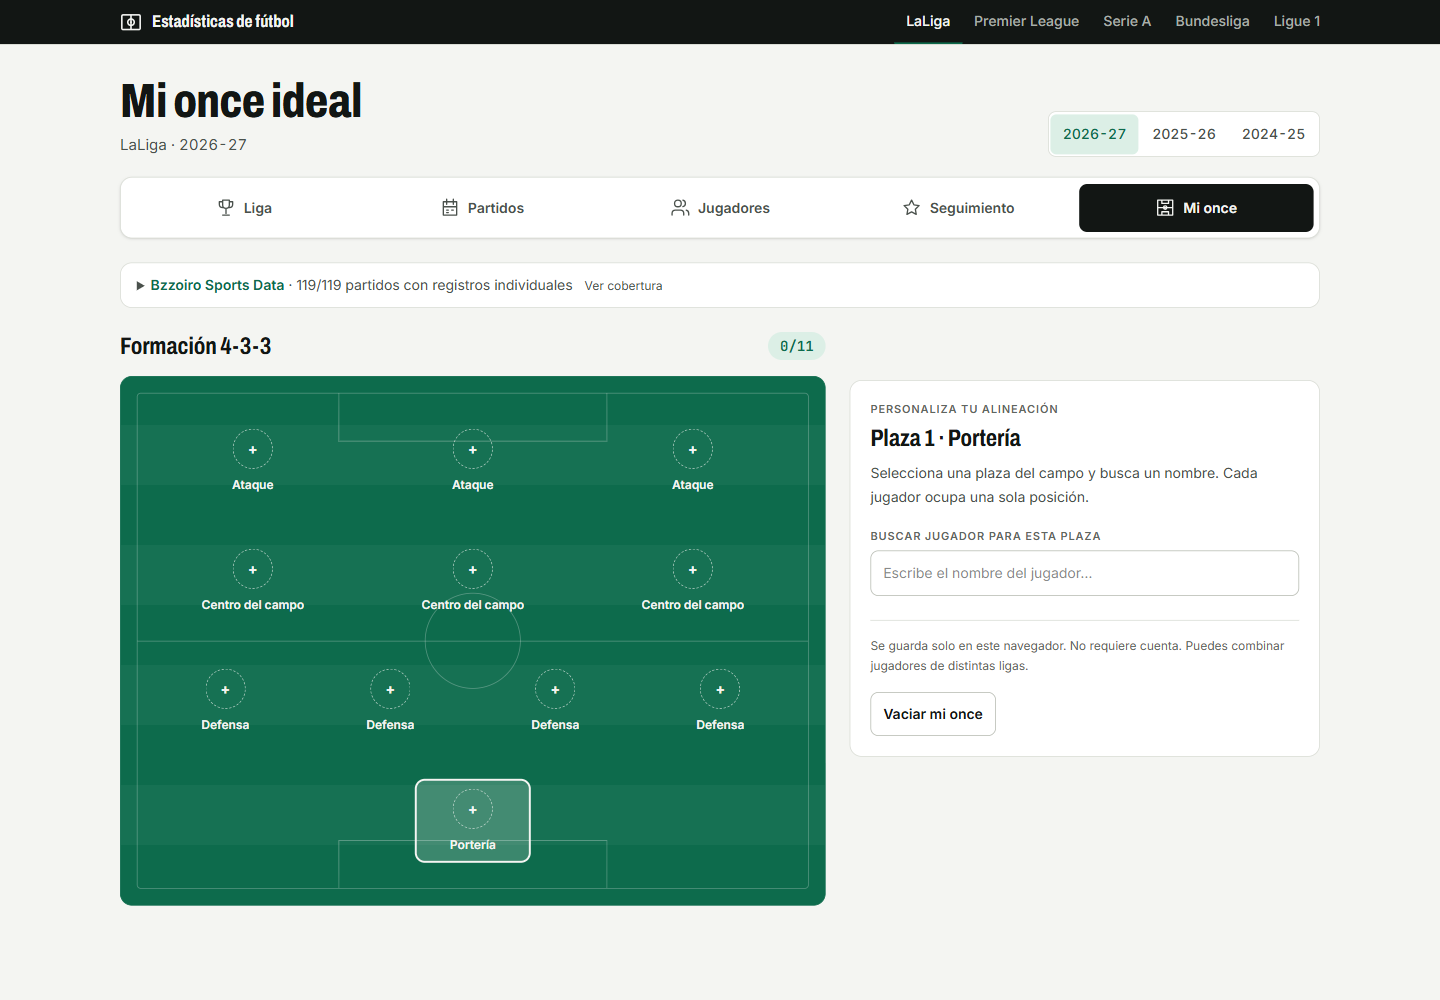
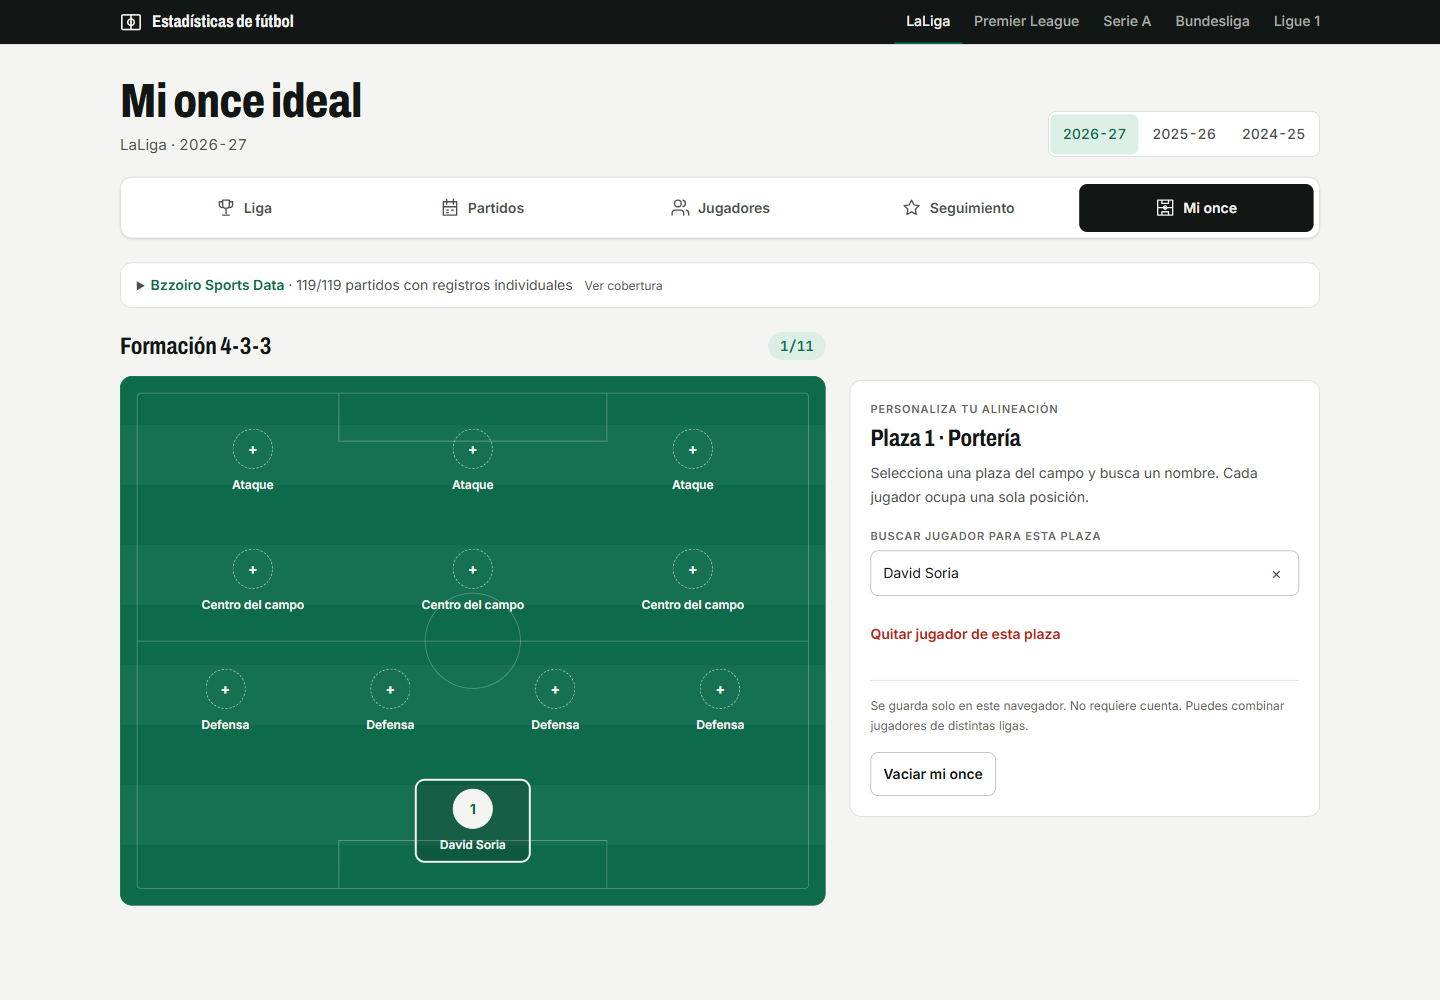
fix: preserve text contrast in interactive match and lineup states

Changed region(s): [[0.5938, 0.62, 0.9062, 0.806], [0.2812, 0.775, 0.375, 0.868], [0.625, 0.558, 0.75, 0.589]]

diff --git a/01-dashboard-deportes/web/src/components/LineupPitch.tsx b/01-dashboard-deportes/web/src/components/LineupPitch.tsx
@@ -25,7 +25,7 @@ export function LineupPitch({ data, state, update }: {
               const id=state.eleven[slot]; const player=data.players.find(p=>p.id===id);
               return <button key={slot} type="button" aria-pressed={active===slot}
                 aria-label={`Plaza ${slot+1}, ${positionLabel(SLOTS[slot])}: ${player?.name??(id?`Jugador ${id}, otra liga`:pe.emptySlot)}`}
-                onClick={()=>{setActive(slot);if(window.matchMedia('(max-width: 1023px)').matches){editor.current?.focus({preventScroll:true});editor.current?.scrollIntoView({block:'center'});}}} className={`flex min-h-20 w-1/4 max-w-28 flex-col items-center gap-2 rounded-control px-1 py-2 text-on-ink transition-colors ${active===slot?'bg-on-ink/20 ring-2 ring-on-ink':'hover:bg-on-ink/10'}`}>
+                onClick={()=>{setActive(slot);if(window.matchMedia('(max-width: 1023px)').matches){editor.current?.focus({preventScroll:true});editor.current?.scrollIntoView({block:'center'});}}} className={`flex min-h-20 w-1/4 max-w-28 flex-col items-center gap-2 rounded-control px-1 py-2 text-on-ink transition-colors ${active===slot?'bg-ink/20 ring-2 ring-on-ink':'hover:bg-on-ink/10'}`}>
                 <span className={`flex h-10 w-10 items-center justify-center rounded-full border text-sm font-bold ${id?'border-on-ink bg-on-ink text-accent':'border-dashed border-on-ink/70'}`}>{id?slot+1:'+'}</span>
                 <span className="line-clamp-2 text-xs font-semibold leading-snug">{player?.name??(id?`Jugador #${id}`:positionLabel(SLOTS[slot]))}</span>
               </button>;

diff --git a/01-dashboard-deportes/web/src/components/UpcomingMatchCards.tsx b/01-dashboard-deportes/web/src/components/UpcomingMatchCards.tsx
@@ -14,7 +14,7 @@ export function MatchCards({ data, base, now }: { data: PlayerData; base: string
   const labels = { upcoming: pe.upcomingMatches, results: pe.recentResults, season: pe.wholeSeason };
   const next = groups.upcoming[0];
   return <section className="my-6">
-    {next && <Link href={`${base}/partido/${next.id}`} className="mb-6 grid gap-5 rounded-panel bg-ink p-5 text-on-ink transition-colors hover:bg-accent sm:grid-cols-[1fr_auto] sm:items-center sm:p-7">
+    {next && <Link href={`${base}/partido/${next.id}`} className="mb-6 grid gap-5 rounded-panel bg-ink p-5 text-on-ink transition-shadow hover:ring-2 hover:ring-accent sm:grid-cols-[1fr_auto] sm:items-center sm:p-7">
       <div><p className="mb-3 text-xs font-semibold uppercase tracking-widest text-on-ink-muted">{isLiveMatch(next) ? pe.liveMatch : pe.nextMatch}</p>
         <p className="display text-2xl font-bold sm:text-3xl">{next.home} <span className="mx-1 text-lg font-normal text-on-ink-muted">vs</span> {next.away}</p>
         <p className="mono mt-3 text-xs text-on-ink-muted">{new Date(next.date).toLocaleString('es-ES', { timeZone: 'Europe/Madrid', weekday: 'long', day: 'numeric', month: 'long', hour: '2-digit', minute: '2-digit' })}</p>
